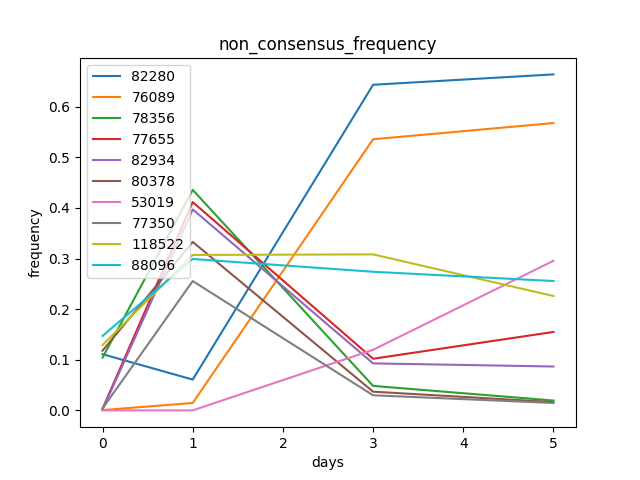
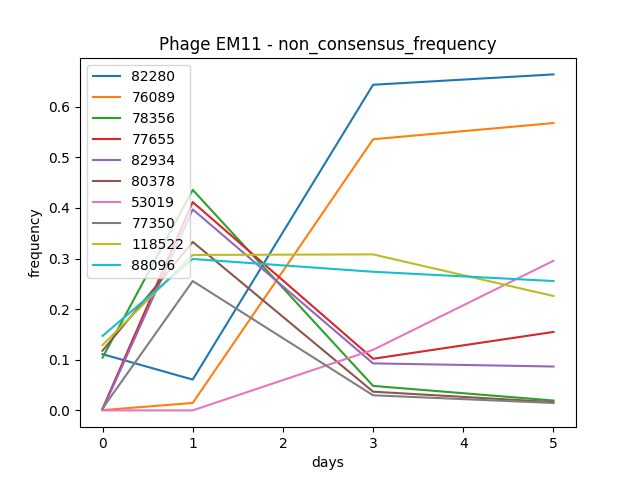
labels to time analysis

Changed region(s): [[0.25, 0.0625, 0.7812, 0.125]]

diff --git a/time_analysis.py b/time_analysis.py
@@ -32,7 +32,7 @@ if __name__ == "__main__":
             ###
             
             fig, axs = plt.subplots(4,figsize=(10,10),sharex=True)
-            fig.suptitle(parameter)
+            fig.suptitle(str(phage+' '+parameter))
             for i,timepoint in enumerate(timepoints_data):
                 to_plot=[]
                 for frequency in timepoints_data[timepoint]:
@@ -78,7 +78,7 @@ if __name__ == "__main__":
             timesteps=[0,1,3,5]####!!!!!!!!!!!!!!!!!!!!!!!!!!!design problem!!!!!!!!!!!!!!!!!!!
             for site,linepoints in to_plot.items():
                 plt.plot(timesteps,linepoints)
-                plt.title(parameter)
+                plt.title(str('Phage '+phage+' - '+parameter))
                 plt.xlabel('days')
                 plt.ylabel('frequency')
             plt.legend(to_plot.keys())
